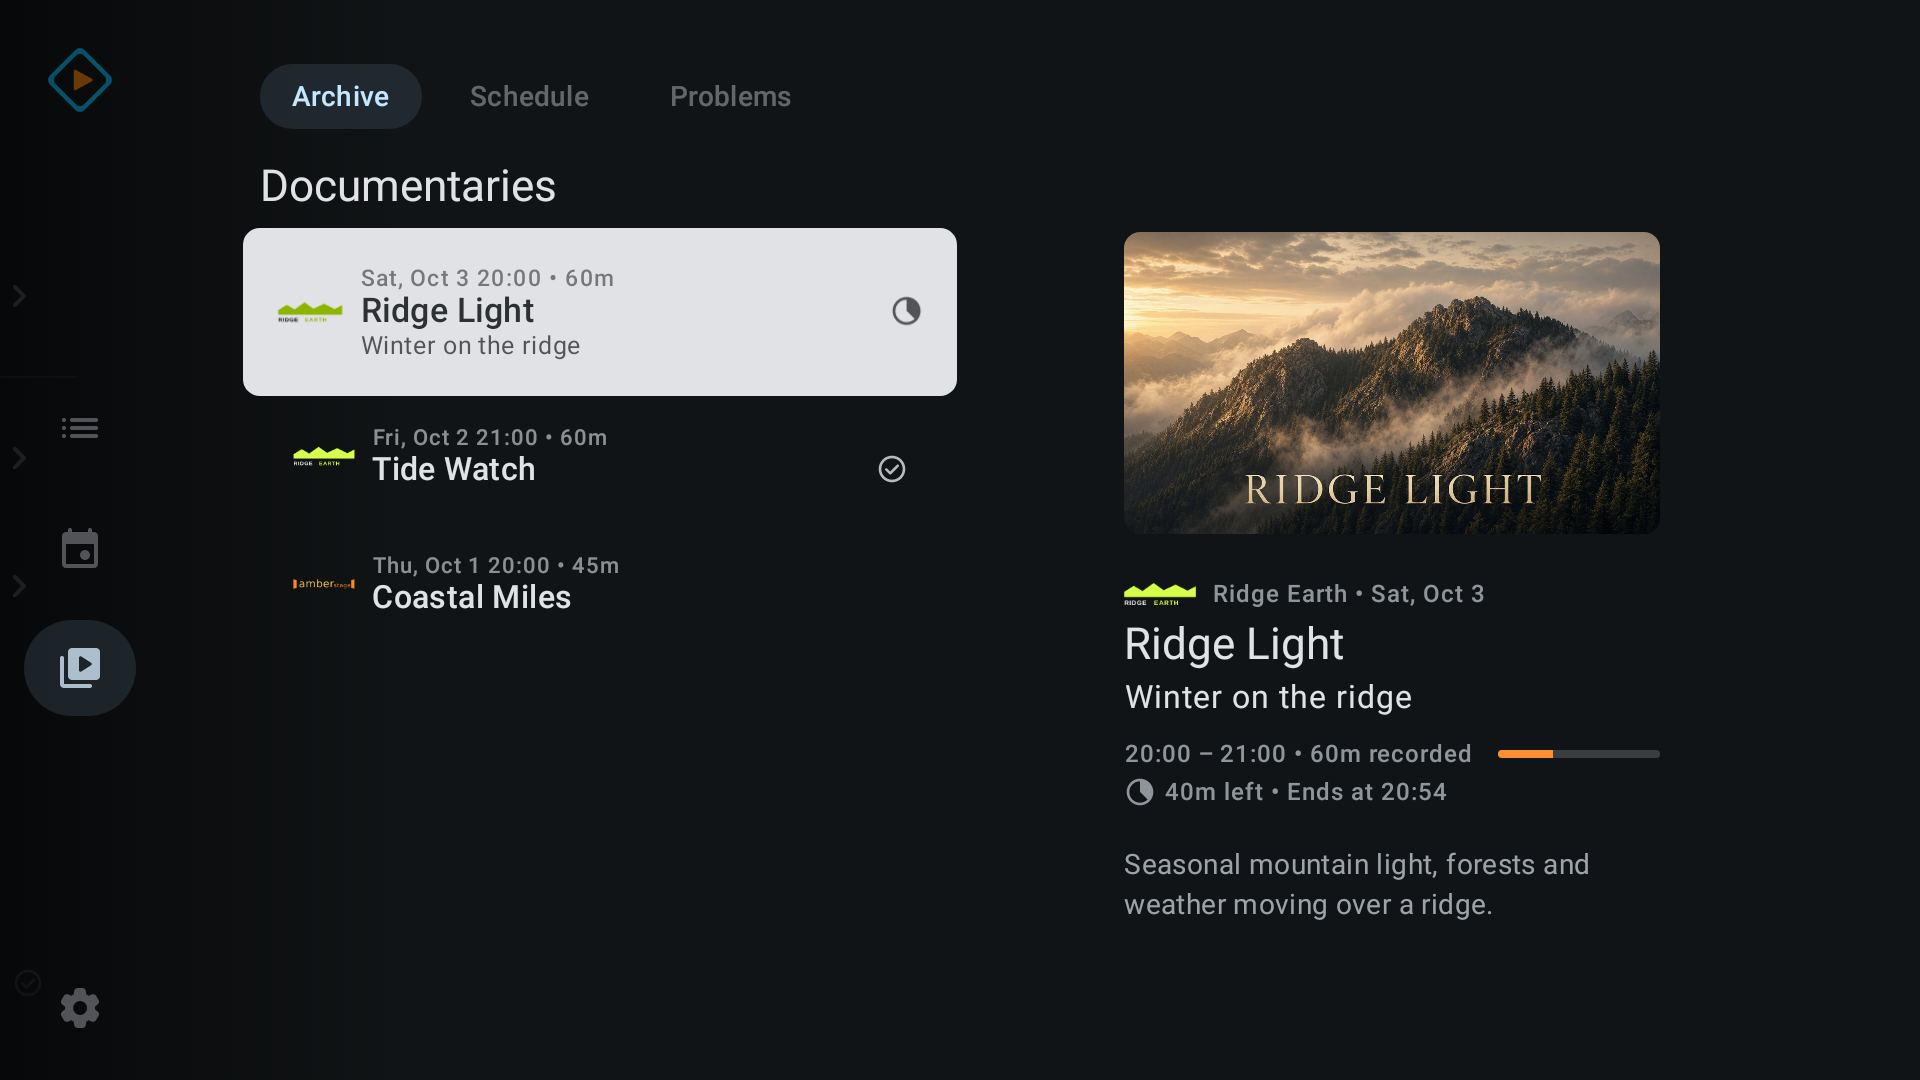
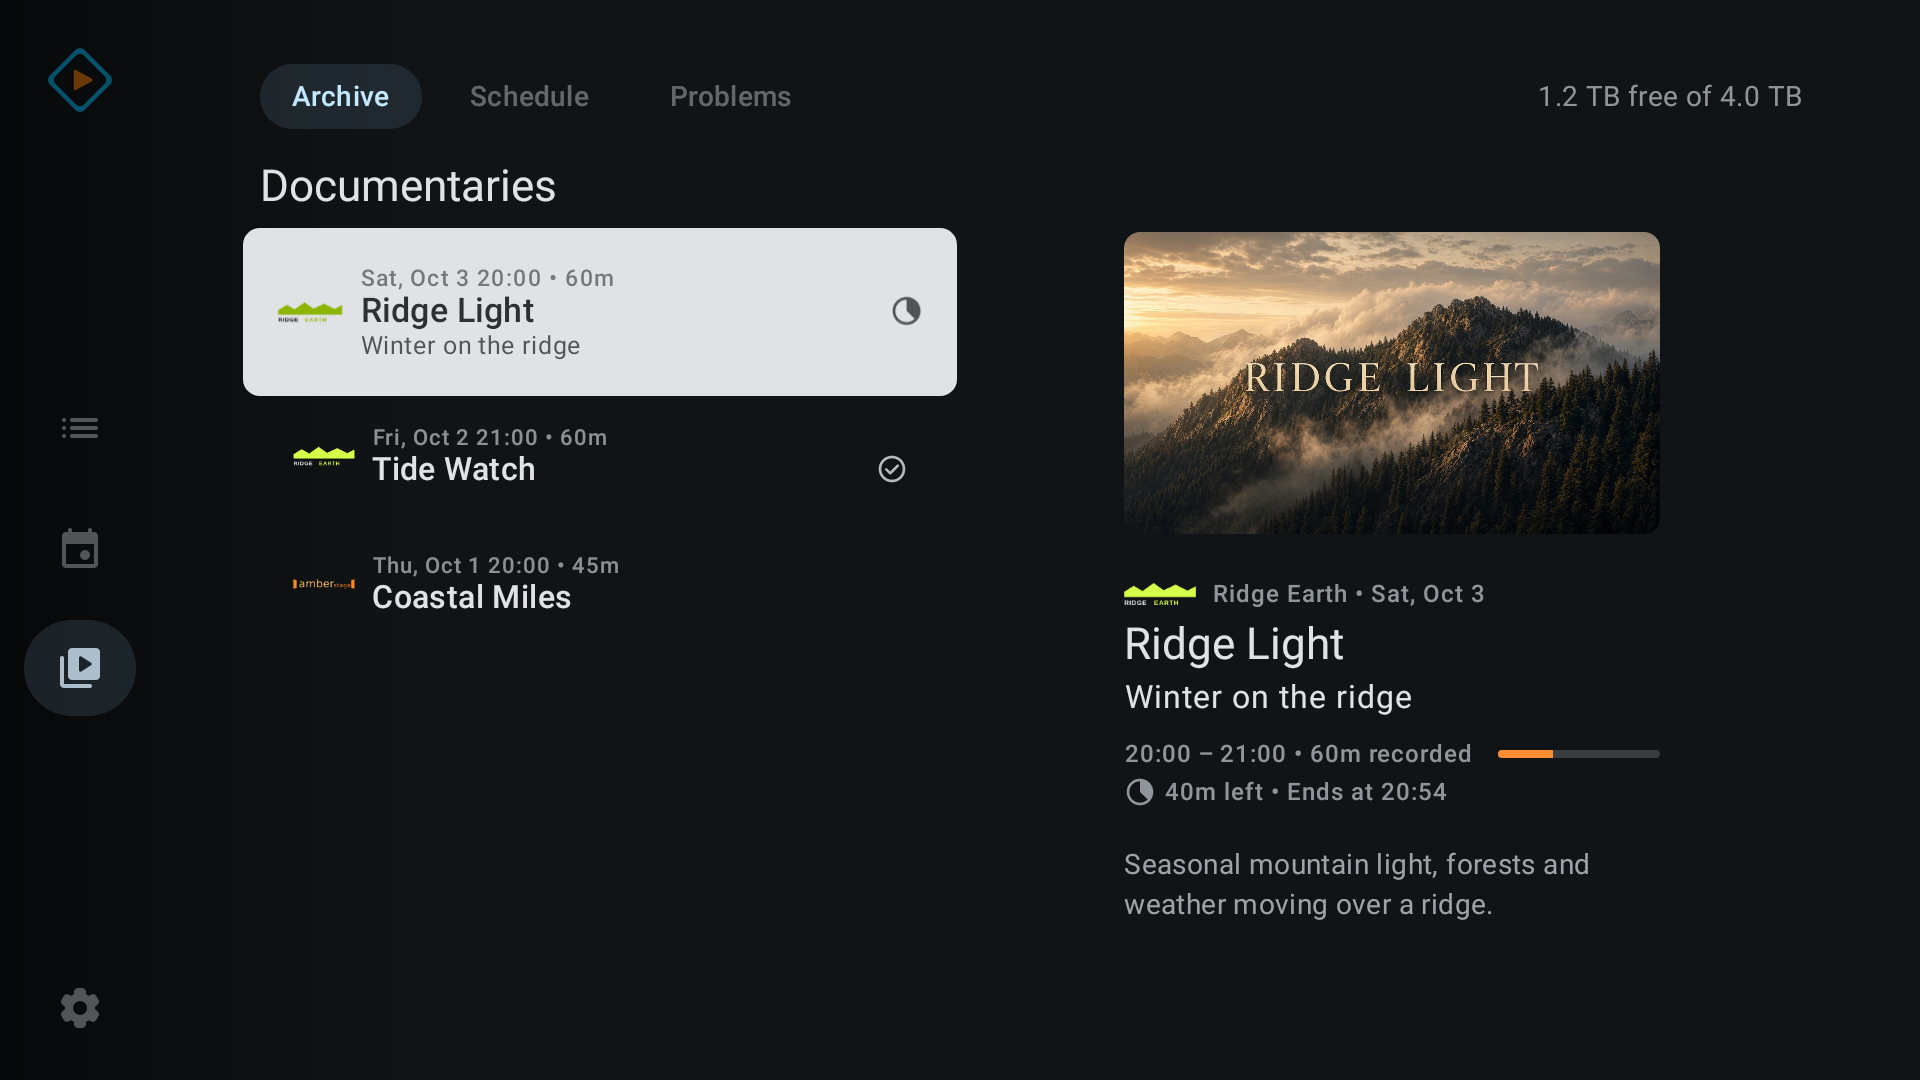
docs: refresh the README screenshots with the new program art and the Recordings disk space line

Changed region(s): [[0.625, 0.3056, 0.8125, 0.4583], [0.8125, 0.0611, 0.9375, 0.0917], [0.75, 0.275, 0.7812, 0.3056]]

diff --git a/docs/presentation-captures.md b/docs/presentation-captures.md
@@ -38,8 +38,7 @@ The README uses Channels as the lead image, then a gallery in pairs: Channels as
 a list and without program pictures, Guide and details, the player controls and
 its channel list, the channel schedule and the side menu over warm playback, then
 Recordings folders and a recording inside a folder. The Grid and Settings
-captures are not used: in the Grid, logo badges cover titles printed in the
-program art. The tracked copies in
+captures are not used. The tracked copies in
 [`artwork/screenshots/`](../artwork/screenshots/) are the same pixels saved
 without the fully opaque alpha channel.
 
